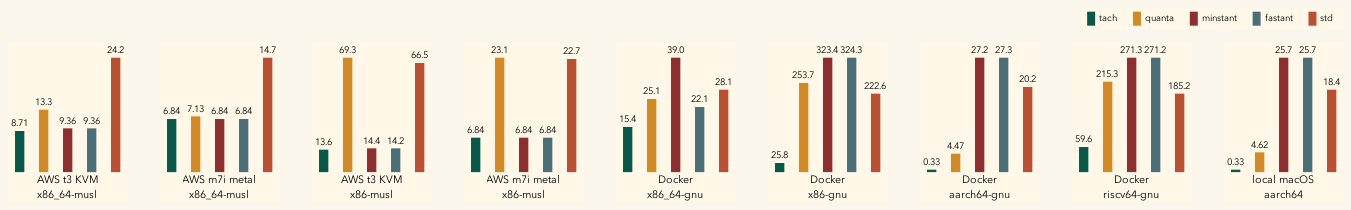
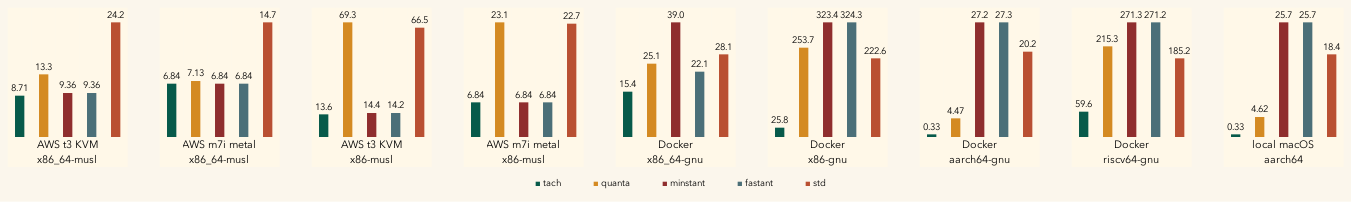
docs(readme): move benchmark legend below chart

diff --git a/PROJECT.md b/PROJECT.md
@@ -10,6 +10,7 @@ tach provides a zero-dependency Rust API for reading fast CPU or platform tick c
 - [x] Rename crate and GitHub repository to `tach`
 - [x] Render README benchmark chart as grouped vertical bars
 - [x] Tighten benchmark chart bar geometry and legend
+- [x] Move benchmark chart legend below the bars
 - [x] Replace noisy m7i GNU row with pinned high-confidence benchmark
 - [x] Keep heatmap and bar chart README benchmark graphics
 - [x] Convert README performance graphic to a bar chart
